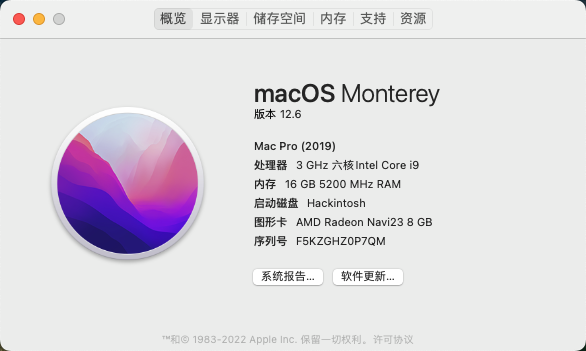
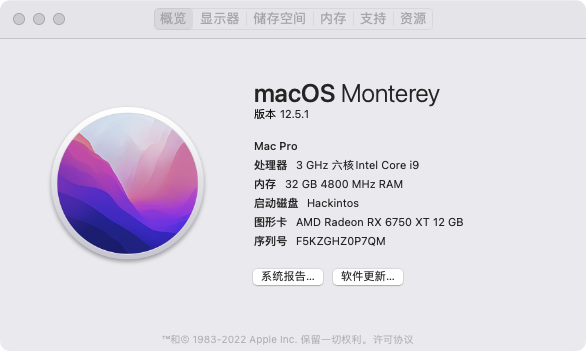
update 6750xt

diff --git a/README.md b/README.md
@@ -5,7 +5,7 @@
 | ----------- | --------------------------------- |
 | CPU         | Intel  i5 12490F                  |
 | Motherboard | Asus ROG Strix B660-I             |
-| GPU         | MSI Radeon RX *6650 XT MECH*      |
+| GPU         | AMD Radeon RX *6750 XT*      |
 | 网卡        | Intel Wi-Fi 6 AX201               |
 | 硬盘        | PREDATOR *GM7000* 1T              |
 | Memory      | Kingston *Fury* *5200MT*/s *DDR5* |
